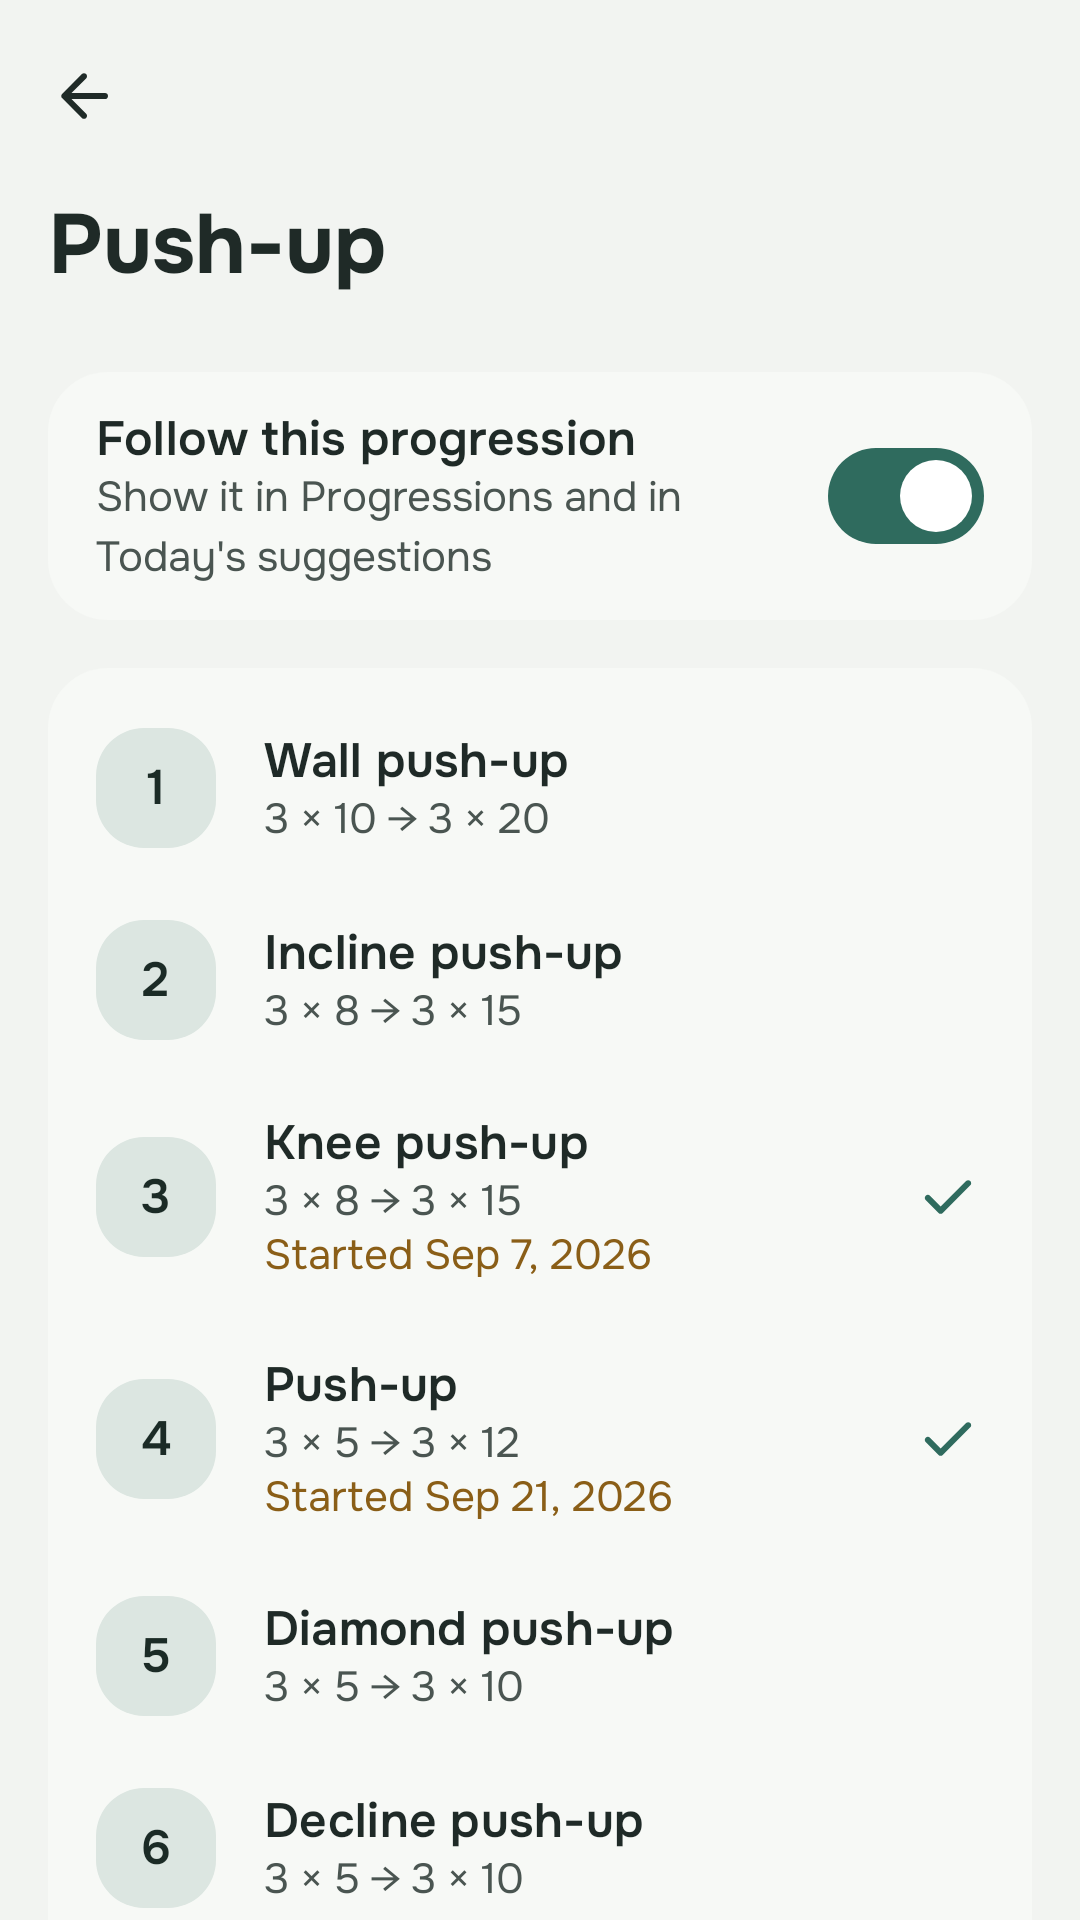
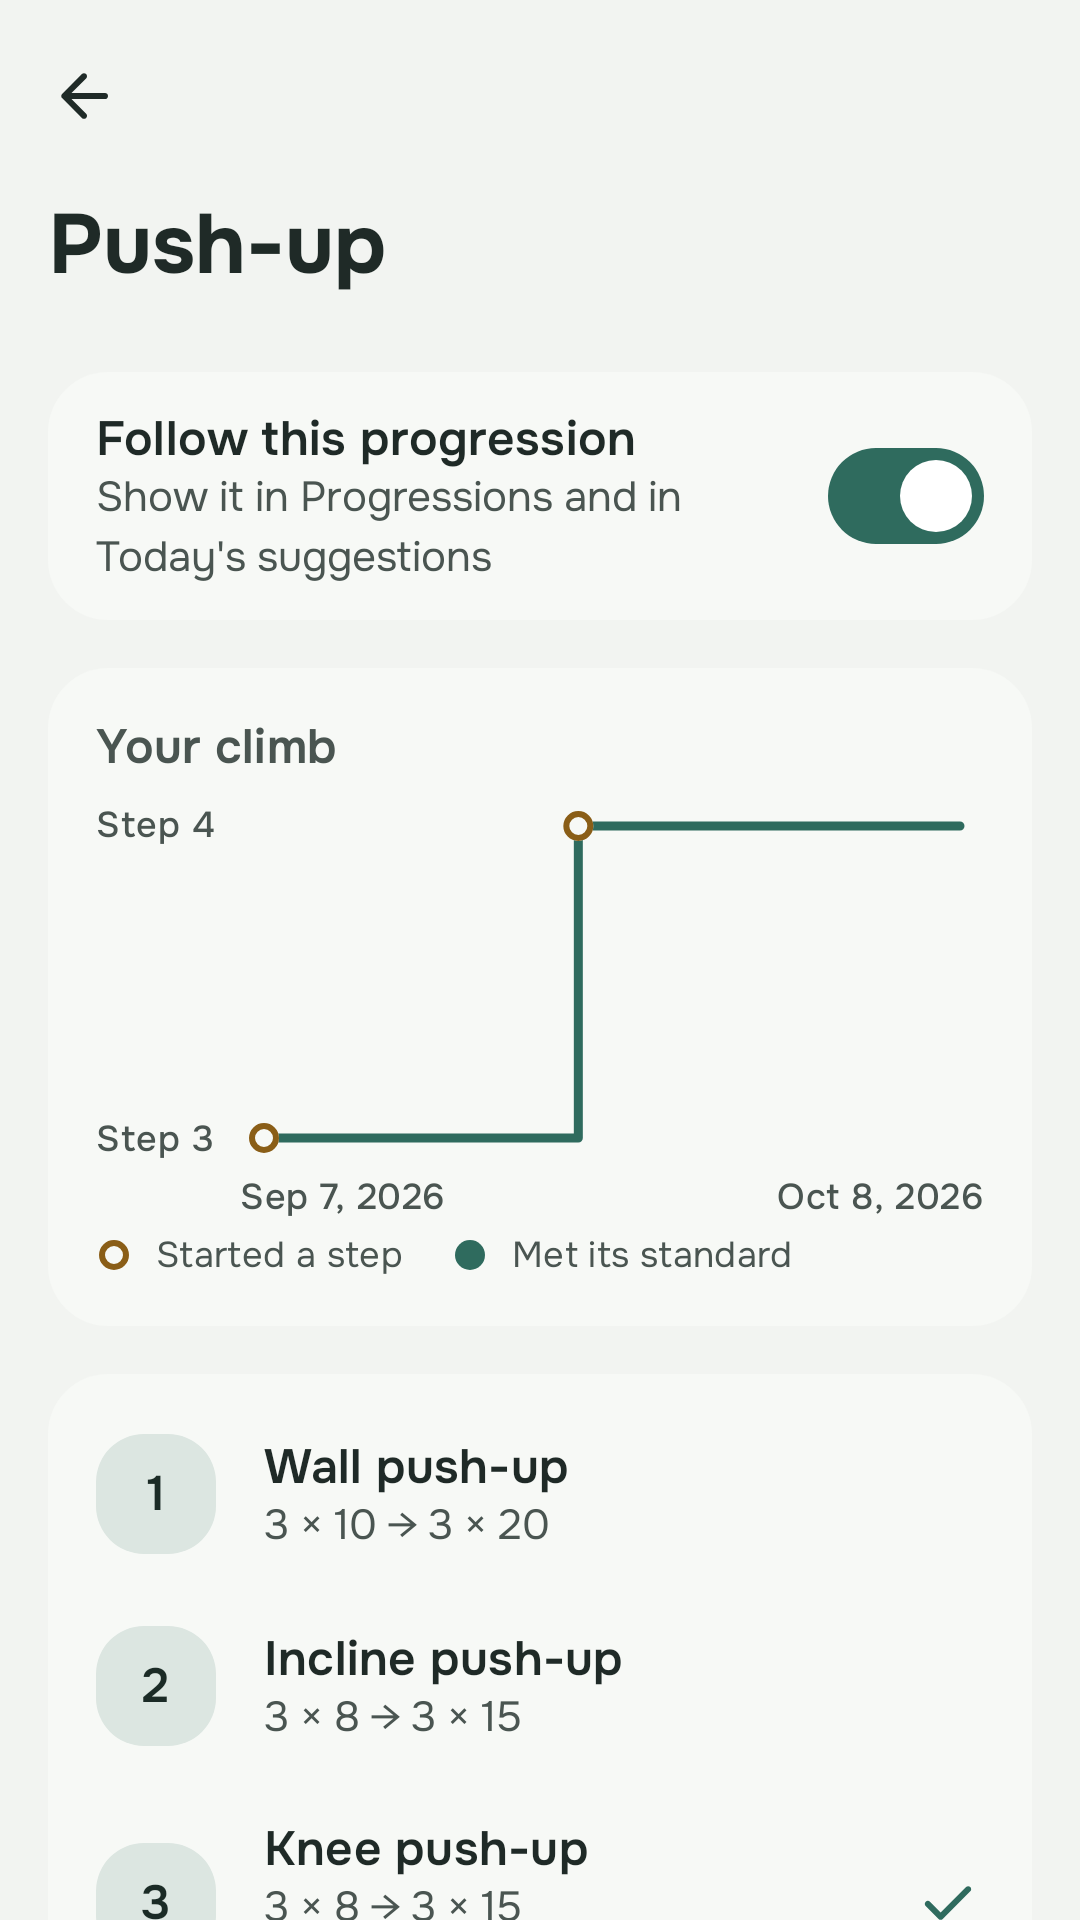
docs: show the climb chart in the README, wiki and store images
The wiki's "Your climb" section describes the chart, the README roadmap
ticks #161, and the chain screenshots now open with the chart. The store
step test scrolls to the Diamond push-up row, which the chart pushed
below the fold.

diff --git a/app/src/test/java/io/github/gonbei774/calisthenicsmemory/screenshots/StoreScreenshotsTest.kt b/app/src/test/java/io/github/gonbei774/calisthenicsmemory/screenshots/StoreScreenshotsTest.kt
@@ -9,6 +9,7 @@ import androidx.compose.ui.test.hasText
 import androidx.compose.ui.test.junit4.createAndroidComposeRule
 import androidx.compose.ui.test.onFirst
 import androidx.compose.ui.test.performClick
+import androidx.compose.ui.test.performScrollTo
 import androidx.test.core.app.ApplicationProvider
 import com.github.takahirom.roborazzi.captureScreenRoboImage
 import io.github.gonbei774.calisthenicsmemory.MainActivity
@@ -117,7 +118,8 @@ class StoreScreenshotsTest(private val theme: AppTheme) {
         openProgressions()
         compose.onAllNodes(hasClickAction() and hasText("Step 4 of", substring = true)).onFirst().performClick()
         waitFor("Diamond push-up")
-        compose.onAllNodes(hasClickAction() and hasText("Diamond push-up", substring = true)).onFirst().performClick()
+        // The climb chart sits above the steps, so the row is below the fold until scrolled to.
+        compose.onAllNodes(hasClickAction() and hasText("Diamond push-up", substring = true)).onFirst().performScrollTo().performClick()
         waitFor("How to do it")
         save("step")
     }

diff --git a/docs/wiki/Progressions-and-the-Catalogue.md b/docs/wiki/Progressions-and-the-Catalogue.md
@@ -33,6 +33,8 @@ To stop following a chain, open it in the catalogue and turn off "Follow this pr
 
 On a chain's page, each step you have trained shows when you started it, and when you first met its standard. The dates come from your saved workouts.
 
+Above the steps, a chart shows your climb: the highest step you had started on each date, from your first session to today, with a mark wherever you started a step or first met its standard.
+
 ## Suggestions on Today
 
 Today can suggest what to train, from the chains you follow. It rests a movement for about two days after you train it, and gives a target based on your last session. Suggestions only suggest: nothing starts or changes unless you tap it. Tap "Not today" to hide one, or turn them all off in Settings › Suggestions on Today.

diff --git a/README.md b/README.md
@@ -153,7 +153,7 @@ request that did it.
 - [x] A weekly review
 - [x] Warm-up sets and an optional effort rating
 - [x] A body map of volume, recovery and untrained muscles
-- [ ] A climb chart for each chain you follow
+- [x] A climb chart for each chain you follow
 - [ ] Personal-best history
 - [ ] Exercise notes
 - [ ] A year heatmap
